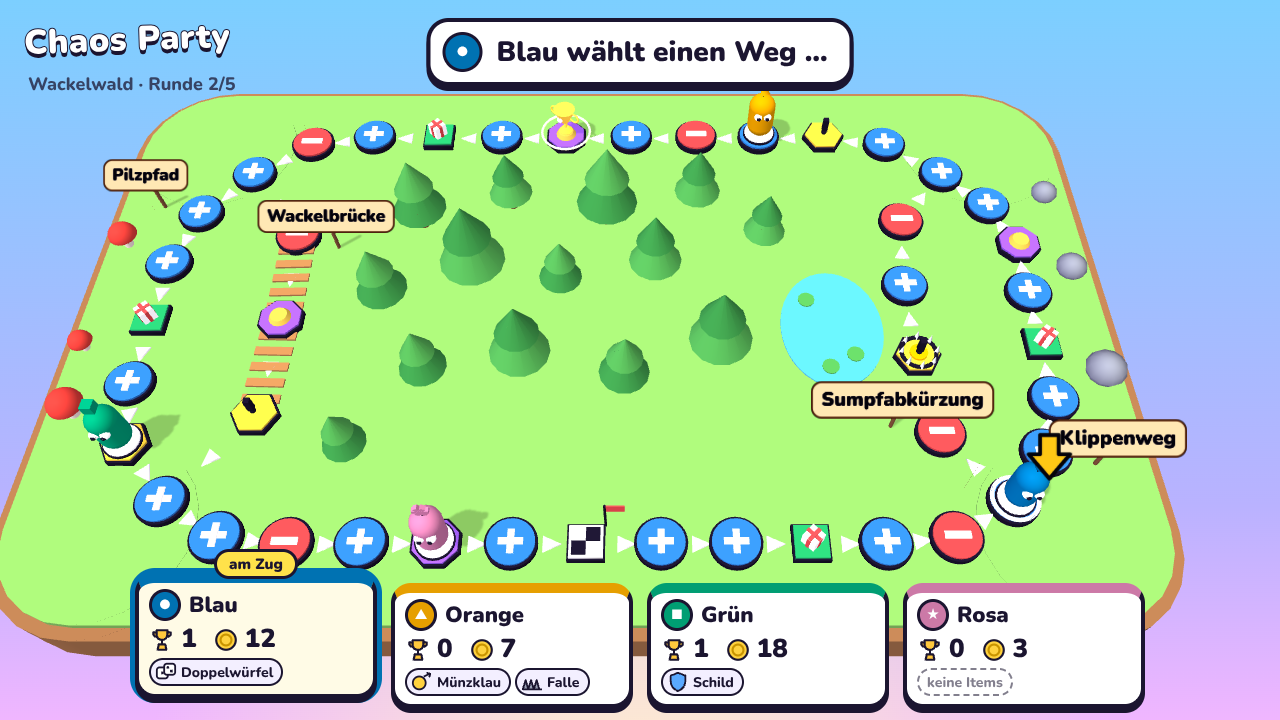
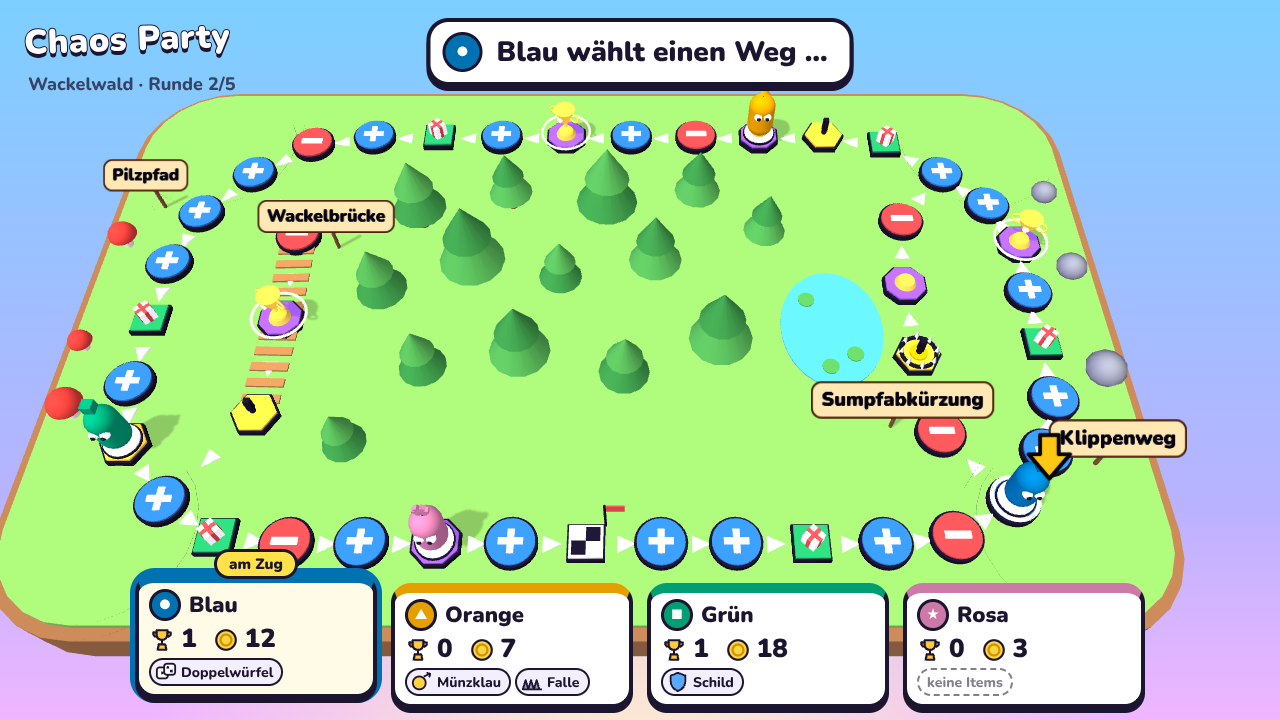
M2 nach den Experimenten: Host-Demo mit drei Trophäen, Belegbild, Spielanleitung
Merge der Experimente (EXP-001 … EXP-004): Trophäenpreis 15, drei aktive
Trophäen, Start-Item, Falle beim Darüberlaufen, Klau 5, Falle 4; Brett mit
6 Trophäen-Kandidaten und 6 Item-Feldern. Host-Demo-Stand und Doku passend.

CHAOS-24, CHAOS-18

Claude-Session: https://claude.ai/code/session_01W3mAqArcmRYmcMeCQRikLA

diff --git a/apps/host/src/board/demo.test.ts b/apps/host/src/board/demo.test.ts
@@ -18,7 +18,7 @@ describe('Demo-Spielstand', () => {
     expect(DEMO_DELAYS_MS).toHaveLength(messages.length);
   });
 
-  it('zeigt vier Spieler auf verschiedenen Feldern des Wackelwalds, Falle und aktive Trophäe', () => {
+  it('zeigt vier Spieler auf verschiedenen Feldern des Wackelwalds, Falle und aktive Trophäen', () => {
     const board = getBoard(DEMO_VIEW.boardId);
     expect(board).toBeDefined();
     const ids = new Set(board?.spaces.map((s) => s.id));
@@ -31,7 +31,8 @@ describe('Demo-Spielstand', () => {
         expect(board?.spaces.find((s) => s.id === t)?.kind).toBe('trophy');
     }
     expect(DEMO_VIEW.traps).toHaveLength(1);
-    expect(DEMO_VIEW.trophySpaces).toHaveLength(1);
+    // Wie DEFAULT_RULES (EXP-002): drei Trophäen gleichzeitig aktiv.
+    expect(DEMO_VIEW.trophySpaces).toHaveLength(3);
   });
 
   it('läuft durch die Regie bis zum letzten Stand', () => {

diff --git a/apps/host/src/board/demo.ts b/apps/host/src/board/demo.ts
@@ -55,7 +55,7 @@ export const DEMO_VIEW: BoardView = {
   turnOrder: [1, 3, 2, 4],
   activeSlot: 1,
   players: PLAYERS,
-  trophySpaces: ['s24'],
+  trophySpaces: ['s12', 's24', 's36'],
   trophyPrice: 20,
   traps: [{ spaceId: 's15', owner: 2 }],
   prompt: {

diff --git a/docs/m2-demo.md b/docs/m2-demo.md
@@ -31,10 +31,12 @@ Am PC `http://localhost:8787/host/` öffnen; Handys und iPad treten wie in M1 ü
 1. **Zug beginnt:** Am PC erscheint „Blau ist dran!“. Nur Blaus Controller zeigt Knöpfe, die anderen sehen „Blau ist dran – schau auf den großen Bildschirm!“ und ihren Stand (Münzen, Trophäen, Items, Runde).
 2. **Würfeln:** „Würfeln!“ tippen. Vor dem Wurf darf man **ein** Item einsetzen:
    - **Doppelwürfel:** Es wird mit zwei Würfeln gewürfelt.
-   - **Münzklau:** Ziel wählen. Das Ziel hat ein kurzes **Reaktionsfenster** mit Countdown: „Schild!“ (falls vorhanden) blockt den Klau, „Festhalten!“ halbiert ihn. Wer nichts tut, verliert den vollen Betrag.
-   - **Falle:** Liegt danach auf dem eigenen Feld. Wer anderes darauf landet, zahlt an dich.
+   - **Münzklau:** Ziel wählen. Das Ziel hat ein kurzes **Reaktionsfenster** (3 s) mit Countdown: „Schild!“ (falls vorhanden) blockt den Klau, „Festhalten!“ halbiert ihn. Wer nichts tut, verliert den vollen Betrag (5 Münzen).
+   - **Falle:** Liegt danach auf dem eigenen Feld. Wer anderes darüberläuft oder darauf landet, zahlt an dich (4 Münzen).
+
+   Jeder startet mit **einem zufälligen Item**; weitere gibt es auf Geschenkfeldern (höchstens 3).
 3. **Laufen:** Die Figur hüpft Feld für Feld. An einer **Verzweigung** fragt der Controller nach dem Weg (Wegweiser am Brett: Klippenweg/Sumpfabkürzung, Pilzpfad/Wackelbrücke).
-4. **Trophäe:** Läufst du über das Feld mit dem goldenen Pokal und hast genug Münzen, kannst du sie kaufen. Danach wandert der Pokal zu einem anderen Trophäenfeld.
+4. **Trophäe:** Drei Felder tragen gleichzeitig einen goldenen Pokal. Läufst du über eines und hast mindestens 15 Münzen, kannst du die Trophäe kaufen. Danach wandert dieser Pokal zu einem anderen Trophäenfeld.
 5. **Feld:** Blau = Münzen +, Rot = Münzen −, Geschenk = Item, Lila = zufälliges Ereignis (Münzregen, Glücksfund, Windstoß, Platztausch, Pokal wandert).
 6. Nach allen Zügen kommt der **Minispiel-Platzhalter** („kommt in M3“). Er verteilt per Zufall Münzen nach Platz.
 7. Nach der letzten Runde zeigen PC und Controller den **Endstand**: Es gewinnt, wer die meisten Trophäen hat, bei Gleichstand entscheiden die Münzen.
@@ -47,3 +49,5 @@ Am PC `http://localhost:8787/host/` öffnen; Handys und iPad treten wie in M1 ü
 - Das Minispiel ist ein Platzhalter, echte Minispiele folgen in M3.
 - Nach dem Endstand führt kein Weg zurück in die Lobby. Für eine neue Partie den Server neu starten (`Strg+C`, `pnpm start`).
 - Wer erst nach dem Start beitritt, spielt nicht mit (Beitritt nur in der Lobby).
+- 5 Runden dauern ohne echte Minispiele nur etwa 2–3 Minuten Brettzeit (EXP-001). Für einen längeren Test `ROUNDS=8 pnpm start` oder `/host/?rounds=8`.
+- Alle Zahlen (Preise, Münzen, Items, Reaktionsfenster) stammen aus Simulationen ([experiments.md](experiments.md), EXP-001 bis EXP-004). Ob es Spaß macht, entscheidet erst der Test mit Menschen.
